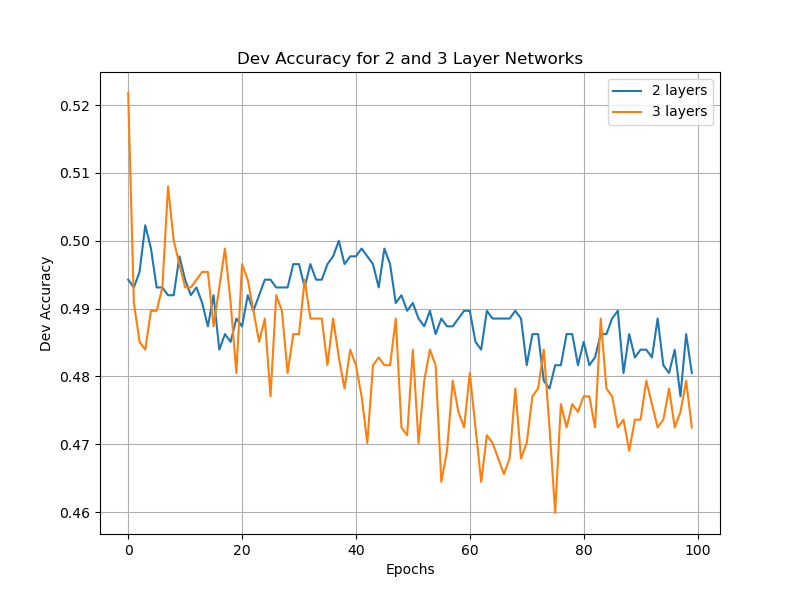
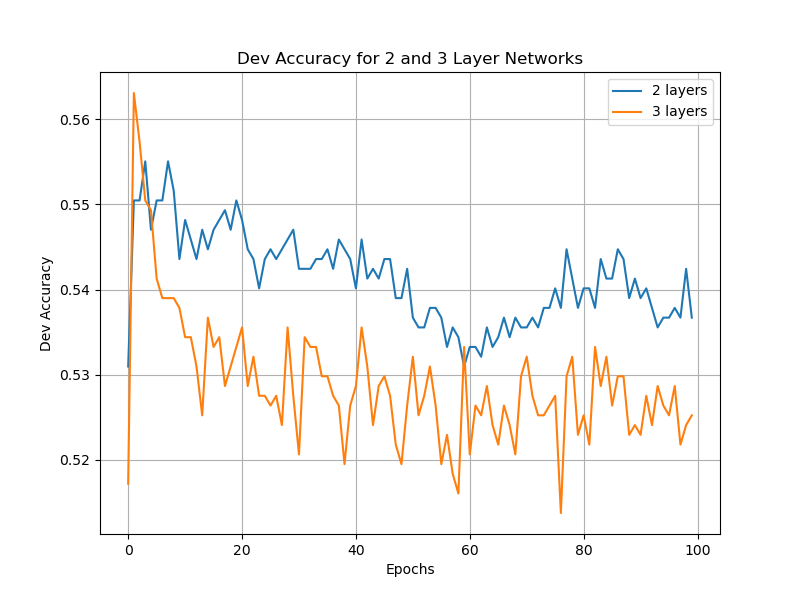
tuned

diff --git a/CSE256_PA1_FA24/main.py b/CSE256_PA1_FA24/main.py
@@ -16,12 +16,14 @@ from byte_pair_encoding import Byte_Pair_Encoding
 
 
 # Training function
-def train_epoch(data_loader, model, loss_fn, optimizer):
+def train_epoch(data_loader, model, loss_fn, optimizer, device):
     size = len(data_loader.dataset)
     num_batches = len(data_loader)
     model.train()
     train_loss, correct = 0, 0
     for batch, (X, y) in enumerate(data_loader):
+        X, y = X.to(device), y.to(device)
+
         if not isinstance(model, DAN):
             X = X.float()
 
@@ -42,13 +44,14 @@ def train_epoch(data_loader, model, loss_fn, optimizer):
 
 
 # Evaluation function
-def eval_epoch(data_loader, model, loss_fn, optimizer):
+def eval_epoch(data_loader, model, loss_fn, device):
     size = len(data_loader.dataset)
     num_batches = len(data_loader)
     model.eval()
     eval_loss = 0
     correct = 0
     for batch, (X, y) in enumerate(data_loader):
+        X, y = X.to(device), y.to(device)
         if not isinstance(model, DAN):
             X = X.float()
 
@@ -64,7 +67,7 @@ def eval_epoch(data_loader, model, loss_fn, optimizer):
 
 
 # Experiment function to run training and evaluation for multiple epochs
-def experiment(model, train_loader, test_loader):
+def experiment(model, train_loader, test_loader, device):
     loss_fn = nn.NLLLoss()
     optimizer = torch.optim.Adam(model.parameters(), lr=0.0001)
 
@@ -72,13 +75,15 @@ def experiment(model, train_loader, test_loader):
     all_test_accuracy = []
     all_train_loss = []
     all_test_loss = []
+
+    model = model.to(device)
+
     for epoch in range(100):
-        train_accuracy, train_loss = train_epoch(train_loader, model, loss_fn, optimizer)
+        train_accuracy, train_loss = train_epoch(train_loader, model, loss_fn, optimizer, device)
         all_train_accuracy.append(train_accuracy)
         all_train_loss.append(train_loss)
 
-
-        test_accuracy, test_loss = eval_epoch(test_loader, model, loss_fn, optimizer)
+        test_accuracy, test_loss = eval_epoch(test_loader, model, loss_fn, device)
         all_test_accuracy.append(test_accuracy)
         all_test_loss.append(test_loss)
 
@@ -96,6 +101,9 @@ def main():
     # Parse the command-line arguments
     args = parser.parse_args()
 
+    device = torch.device("cuda" if torch.cuda.is_available() else "cpu")
+    print(f"Device: {device}")
+
     if args.model == "BOW":
         # Load dataset
         start_time = time.time()
@@ -111,11 +119,11 @@ def main():
         # Train and evaluate NN2
         start_time = time.time()
         print('\n2 layers:')
-        nn2_train_accuracy, nn2_test_accuracy, nn2_train_loss, nn2_test_loss = experiment(NN2BOW(input_size=512, hidden_size=100), train_loader, test_loader)
+        nn2_train_accuracy, nn2_test_accuracy, nn2_train_loss, nn2_test_loss = experiment(NN2BOW(input_size=512, hidden_size=100), train_loader, test_loader, device)
 
         # Train and evaluate NN3
         print('\n3 layers:')
-        nn3_train_accuracy, nn3_test_accuracy, nn3_train_loss, nn3_test_loss = experiment(NN3BOW(input_size=512, hidden_size=100), train_loader, test_loader)
+        nn3_train_accuracy, nn3_test_accuracy, nn3_train_loss, nn3_test_loss = experiment(NN3BOW(input_size=512, hidden_size=100), train_loader, test_loader, device)
 
         # Plot the training accuracy
         plt.figure(figsize=(8, 6))
@@ -167,23 +175,25 @@ def main():
         print(f"Data loaded in : {time.time() - start_time} seconds")
 
         # Train and evaluate pretrained DAN
-        start_time = time.time()
         print("Pretrained DAN :")
-        pre_DAN_train_accuracy, pre_DAN_test_accuracy, pre_DAN_train_loss, pre_DAN_test_loss = experiment(DAN(embed_size=300, hidden_size=100, word_embed=word_embeddings, frozen=False), train_loader, test_loader)
+        start_time = time.time()
+        pretrain_train_accuracy, pretrain_test_accuracy, pretrain_train_loss, pretrain_test_loss = experiment(
+            DAN(embed_size=300, hidden_size=100, word_embed=word_embeddings, frozen=True), train_loader, test_loader, device)
         print(f"Finished training in : {time.time() - start_time} seconds")
 
         # Randomly initialized embeddings 
         print("DAN")
         start_time = time.time()
-        DAN_train_accuracy, DAN_test_accuracy, rand_DAN_train_loss, rand_DAN_test_loss = experiment(DAN(embed_size=300, hidden_size=100, vocab_size=word_embeddings.word_indexer.__len__()), train_loader, test_loader)
+        rand_init_train_accuracy, rand_init_test_accuracy, rand_init_train_loss, rand_init_test_loss = experiment(
+            DAN(embed_size=50, hidden_size=100, vocab_size=word_embeddings.word_indexer.__len__()), train_loader, test_loader, device)
         print(f"Finished training in : {time.time() - start_time} seconds")
 
-        # Plot the training and testing accuracy
+        # Plot the accuracy
         plt.figure(figsize=(8, 6))
-        plt.plot(pre_DAN_train_accuracy, label='Pretrained DAN Training')
-        plt.plot(pre_DAN_test_accuracy, label='Pretrained DAN Testing')
-        plt.plot(DAN_train_accuracy, label='DAN Training')
-        plt.plot(DAN_test_accuracy, label='DAN Testing')
+        plt.plot(pretrain_train_accuracy, label='Pretrained DAN Training')
+        plt.plot(pretrain_test_accuracy, label='Pretrained DAN Testing')
+        plt.plot(rand_init_train_accuracy, label='DAN Training')
+        plt.plot(rand_init_test_accuracy, label='DAN Testing')
         plt.xlabel('Epochs')
         plt.ylabel('Accuracy')
         plt.title('Accuracy for training and testing')
@@ -195,12 +205,12 @@ def main():
         plt.savefig(dan_accuracy_file)
         print(f"Accuracy plot saved as {dan_accuracy_file}\n\n")
 
-        # Plot the training and testing loss
+        # Plot the loss
         plt.figure(figsize=(8, 6))
-        plt.plot(pre_DAN_train_loss, label='Pretrained DAN Training')
-        plt.plot(pre_DAN_test_loss, label='Pretrained DAN Testing')
-        plt.plot(rand_DAN_train_loss, label='DAN Training')
-        plt.plot(rand_DAN_test_loss, label='DAN Testing')
+        plt.plot(pretrain_train_loss, label='Pretrained DAN Training')
+        plt.plot(pretrain_test_loss, label='Pretrained DAN Testing')
+        plt.plot(rand_init_train_loss, label='DAN Training')
+        plt.plot(rand_init_test_loss, label='DAN Testing')
         plt.xlabel('Epochs')
         plt.ylabel('Loss')
         plt.title('Loss for training and testing')
@@ -227,13 +237,14 @@ def main():
         # Train model
         print("##### Training SUBWORDDAN #####")
         start_time = time.time()
-        subword_DAN_train_accuracy, subword_DAN_test_accuracy, subword_DAN_train_loss, subword_DAN_test_loss = experiment(DAN(embed_size=300, hidden_size=100, vocab_size=K), train_loader, test_loader)
+        subword_train_accuracy, subword_test_accuracy, subword_train_loss, subword_test_loss = experiment(
+            DAN(embed_size=300, hidden_size=100, vocab_size=K), train_loader, test_loader, device)
         print(f"Finished training in : {time.time() - start_time} seconds")
 
         # Plot the training and testing accuracy
         plt.figure(figsize=(8, 6))
-        plt.plot(subword_DAN_train_accuracy, label='Training')
-        plt.plot(subword_DAN_test_accuracy, label='Testing')
+        plt.plot(subword_train_accuracy, label='Training')
+        plt.plot(subword_test_accuracy, label='Testing')
         plt.xlabel('Epochs')
         plt.ylabel('Accuracy')
         plt.title('Accuracy for training and testing')
@@ -247,8 +258,8 @@ def main():
 
         # Plot the training and testing loss
         plt.figure(figsize=(8, 6))
-        plt.plot(subword_DAN_train_loss, label='Training')
-        plt.plot(subword_DAN_test_loss, label='Testing')
+        plt.plot(subword_train_loss, label='Training')
+        plt.plot(subword_test_loss, label='Testing')
         plt.xlabel('Epochs')
         plt.ylabel('Loss')
         plt.title('Loss for training and testing')

diff --git a/CSE256_PA1_FA24/DANmodels.py b/CSE256_PA1_FA24/DANmodels.py
@@ -32,7 +32,7 @@ class SentimentDatasetDAN(Dataset):
         
 
 class DAN(nn.Module):
-    def __init__(self, embed_size, hidden_size, vocab_size=None, word_embed=None, frozen=True):
+    def __init__(self, embed_size, hidden_size, vocab_size=None, word_embed=None, dropout=0.2, frozen=True):
         super().__init__()
         # Using pretrained initialization
         
@@ -46,20 +46,14 @@ class DAN(nn.Module):
         self.fc1 = nn.Linear(embed_size, hidden_size)
         self.fc2 = nn.Linear(hidden_size, hidden_size)
         self.fc3 = nn.Linear(hidden_size, 2)  # Output size for binary classification
+        self.dropout = nn.Dropout(dropout) # dropout
         self.log_softmax = nn.LogSoftmax(dim=1)
 
-    def forward(self, x):
-        max_index = self.embeddings.weight.size(0)  # Size of embedding matrix
-        if torch.max(x) >= max_index:
-            print(f"Error: Index {torch.max(x)} is out of range for embedding size {max_index}")
-
-        if torch.min(x) < 0:
-            print(f"Error: Index {torch.min(x)} is smaller than 0")
-        
+    def forward(self, x): 
         x = self.embeddings(x)
-        # x = F.relu(x)
         x = x.mean(dim=1)  # Average embeddings to get a fixed-size vector
         x = F.relu(self.fc1(x))
+        x = self.dropout(x)
         x = F.relu(self.fc2(x))
         x = self.fc3(x)  # Remove ReLU here before log softmax
         x = self.log_softmax(x)
